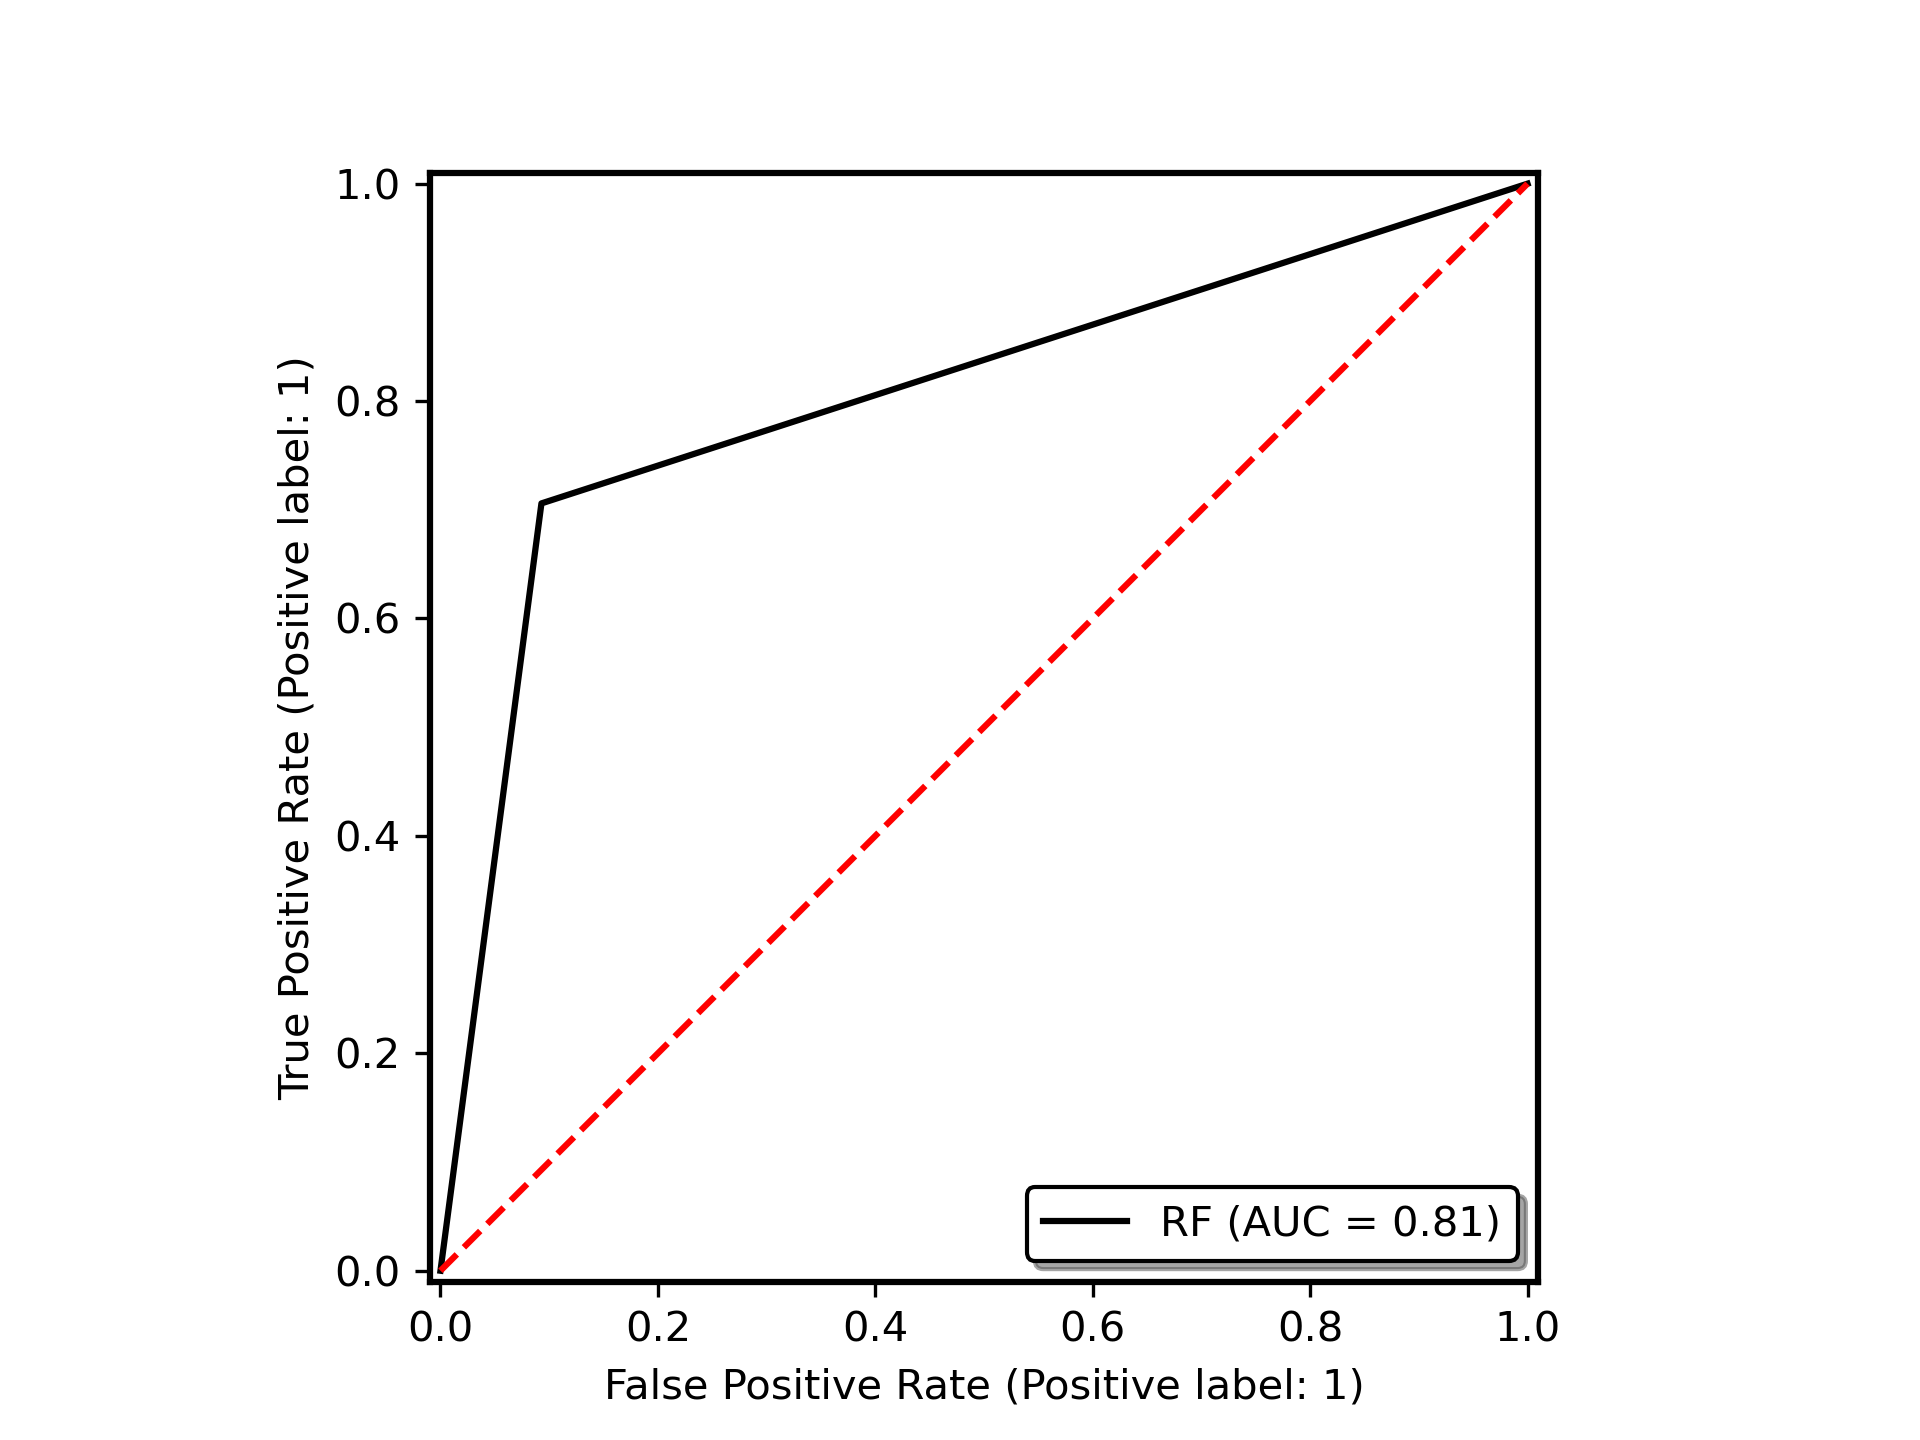
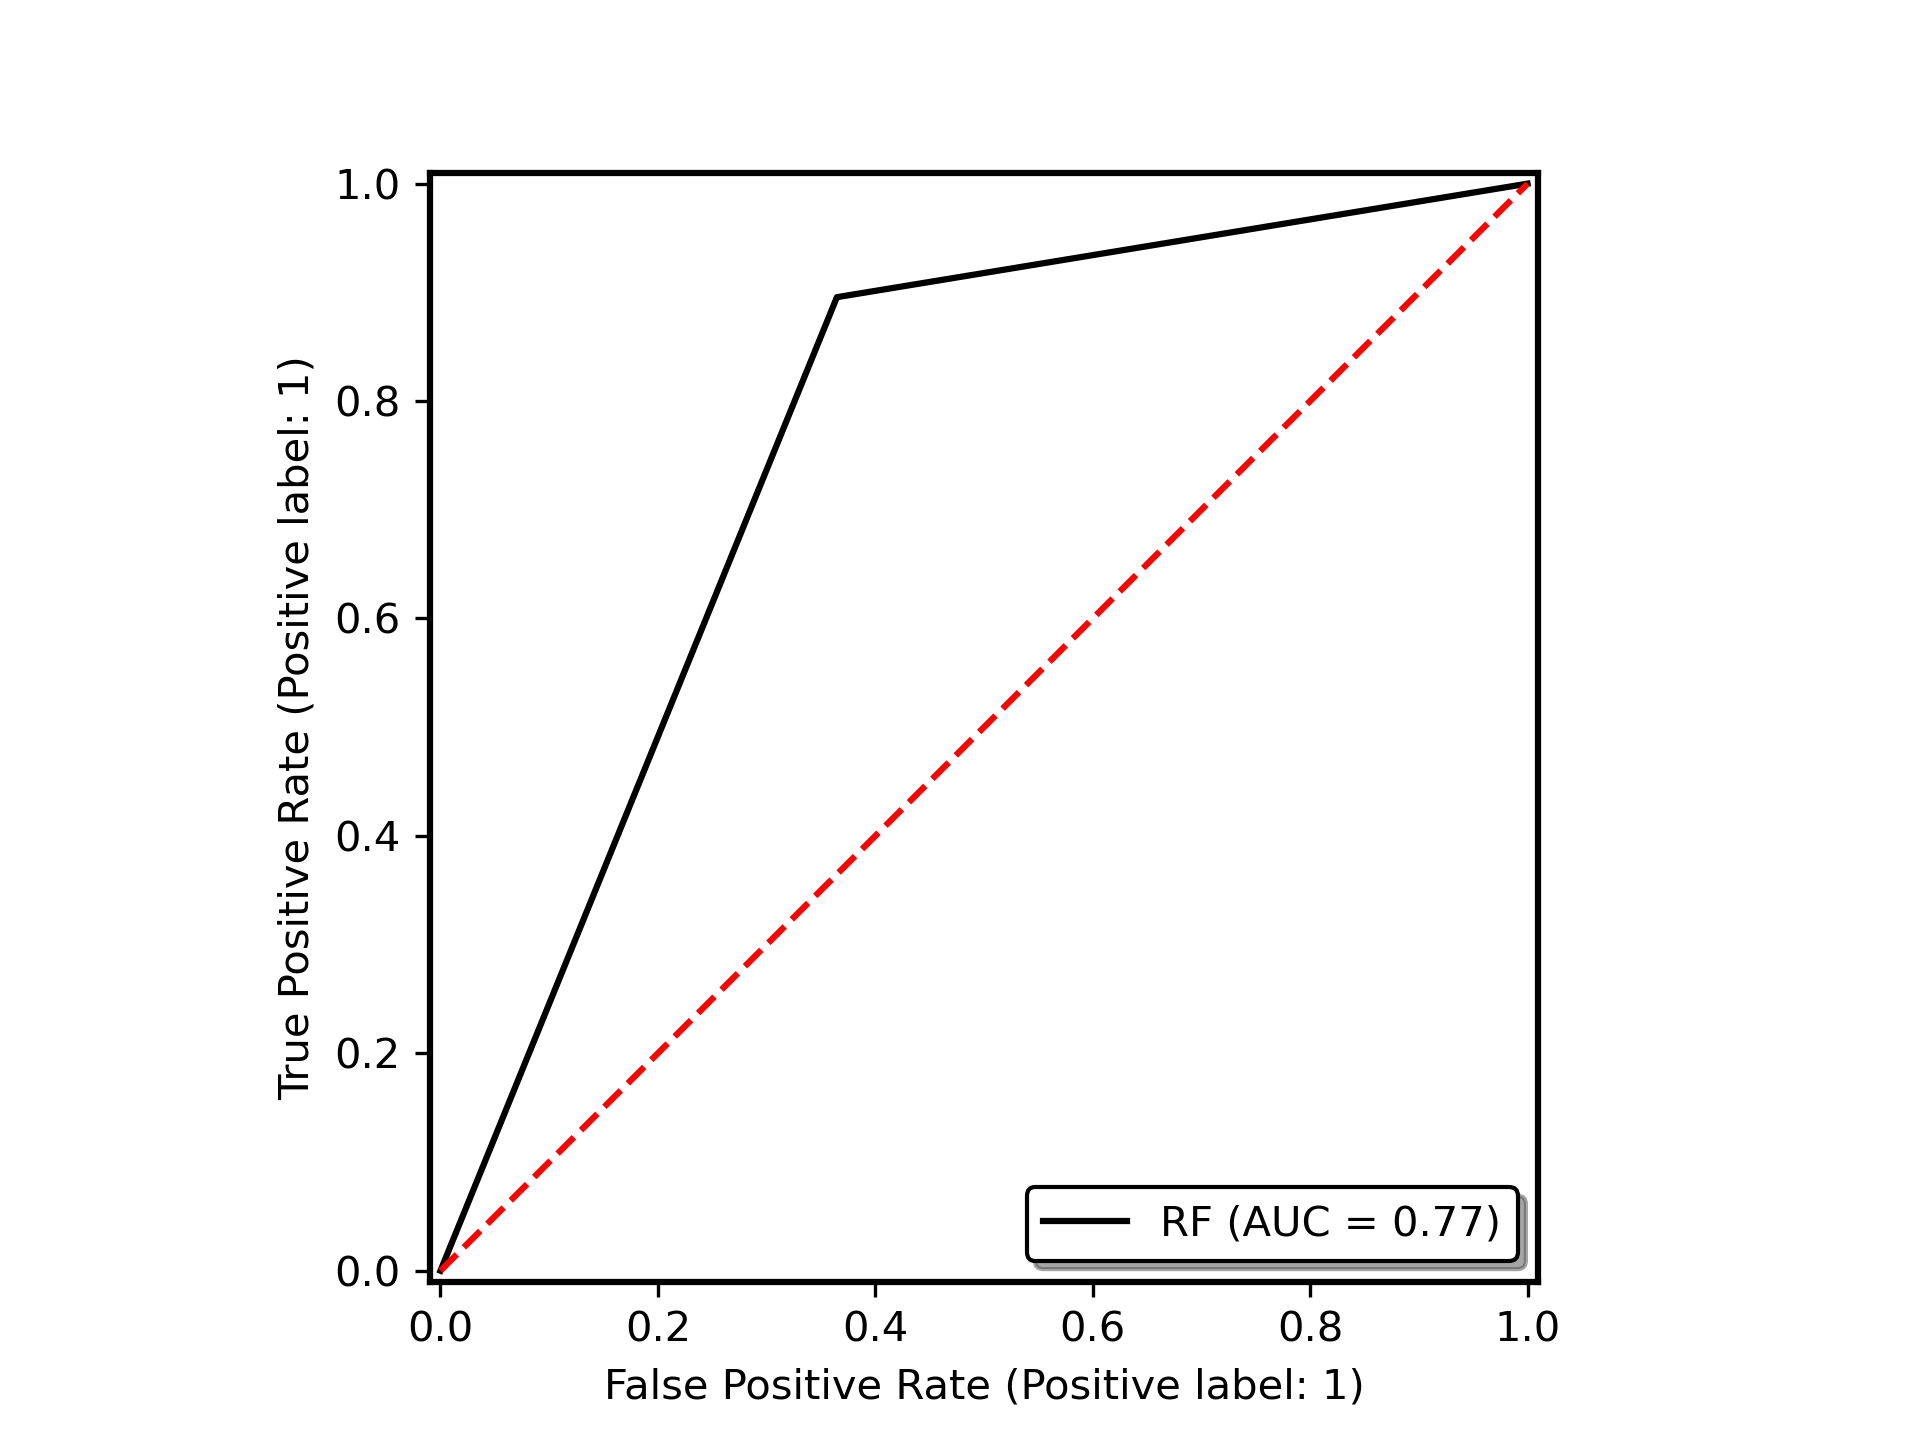
ss

diff --git a/pages/2_Model Performance.py b/pages/2_Model Performance.py
@@ -12,9 +12,9 @@ st.write("We chosed PubChem fingerprints for building the model using RandomFore
 
 
 with st.expander('Performance', expanded=True):
-    st.write("Sensitivity (SN) : 71%")
-    st.write("Specificity (SP) : 91%")
-    st.write("Matthews’s correlation coefficient (MCC) : 0.61")
-    st.write("Accuracy (Q) : 86%")
+    st.write("Sensitivity (SN) : 90%")
+    st.write("Specificity (SP) : 64%")
+    st.write("Matthews’s correlation coefficient (MCC) : 0.52")
+    st.write("Accuracy (Q) : 84%")
     Auc_i = Image.open('AUC.png')
     st.image(Auc_i, use_column_width=True)
